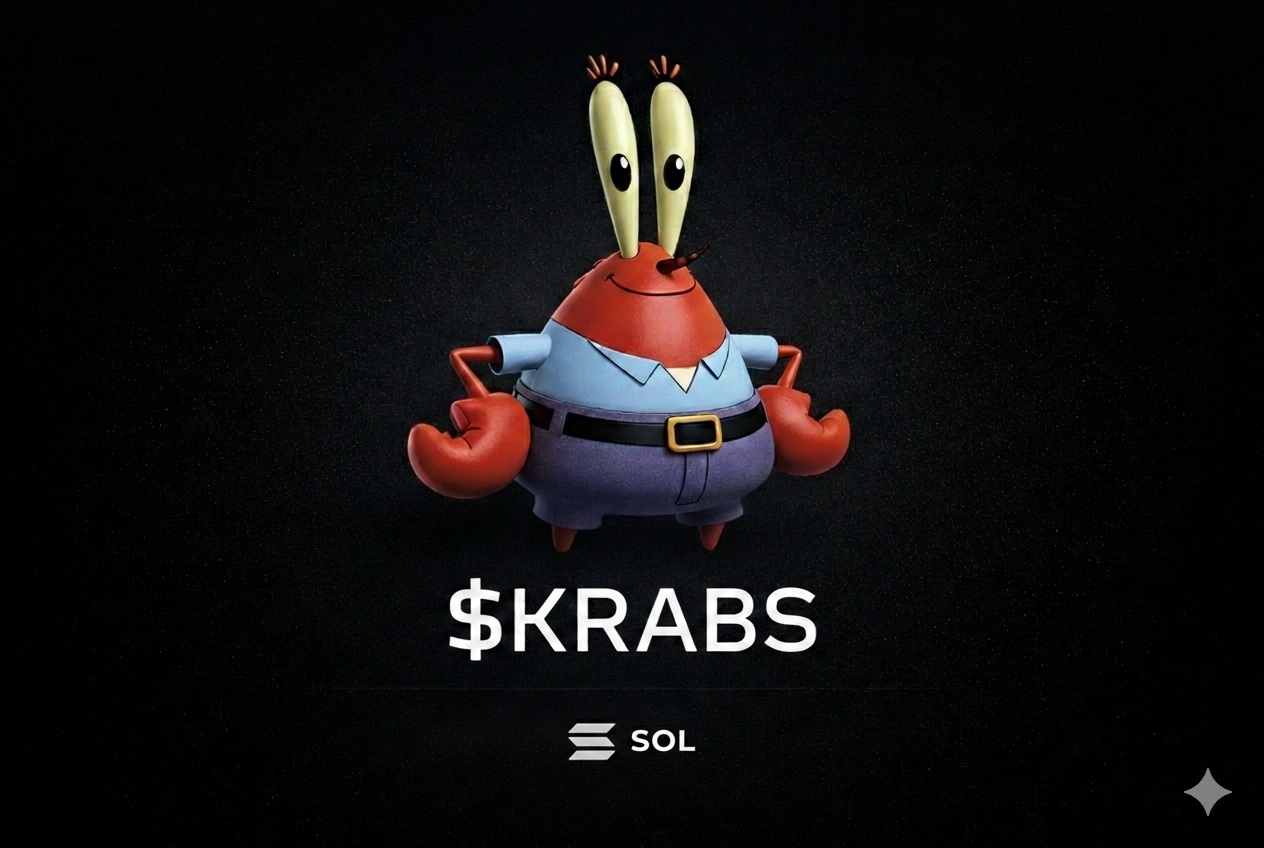
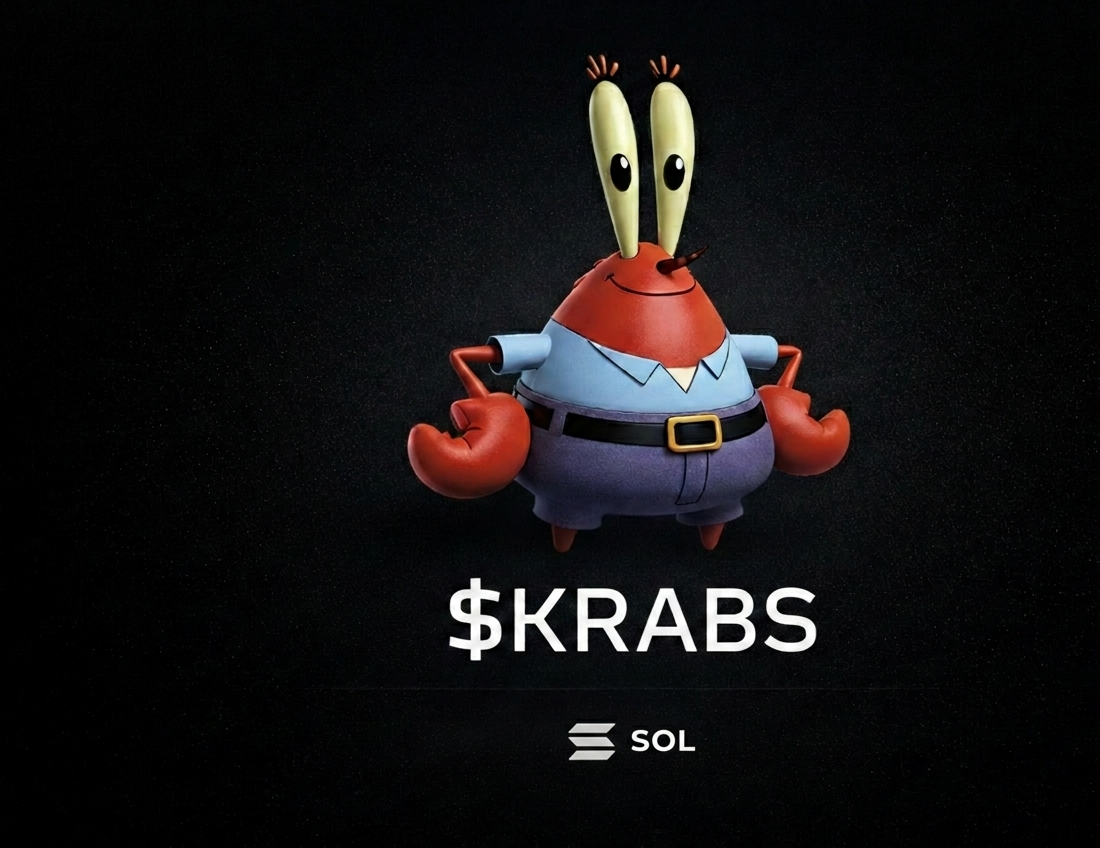
Crop image to remove watermark, fix fit

diff --git a/src/components/Hero.jsx b/src/components/Hero.jsx
@@ -4,8 +4,8 @@ import heroBg from '../assets/Gemini_Generated_Image_ovf6v4ovf6v4ovf6.png'
 const Hero = () => {
   return (
     <section id="hero" className="relative min-h-screen flex items-center justify-center overflow-hidden">
-      <div className="absolute inset-0">
-        <img src={heroBg} alt="" className="w-full h-full object-contain object-center" />
+      <div className="absolute inset-0 flex items-center justify-center">
+        <img src={heroBg} alt="" className="w-full h-full object-cover" />
       </div>
 
       <div className="absolute inset-0 bg-gradient-to-b from-[#050505]/60 via-[#050505]/30 to-[#050505]" />
